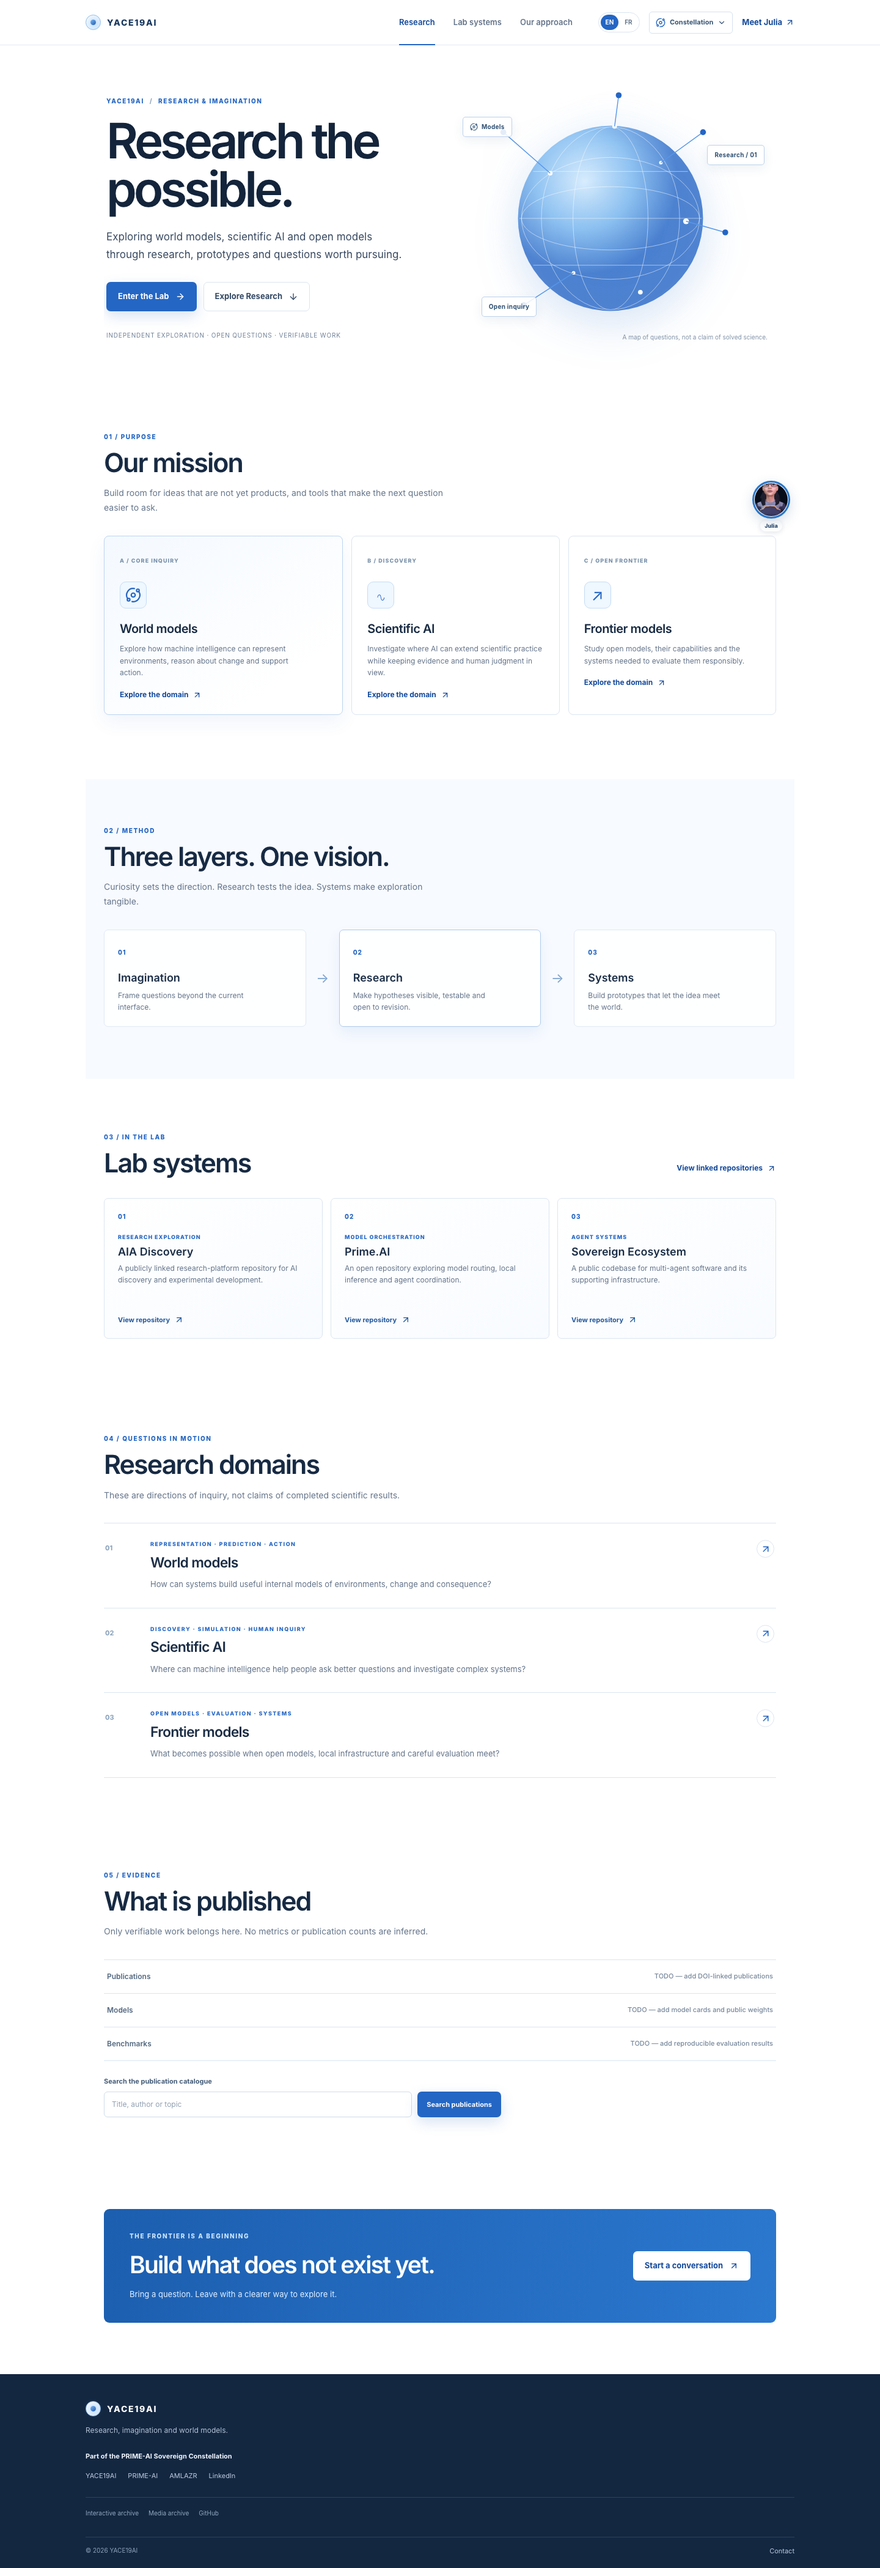
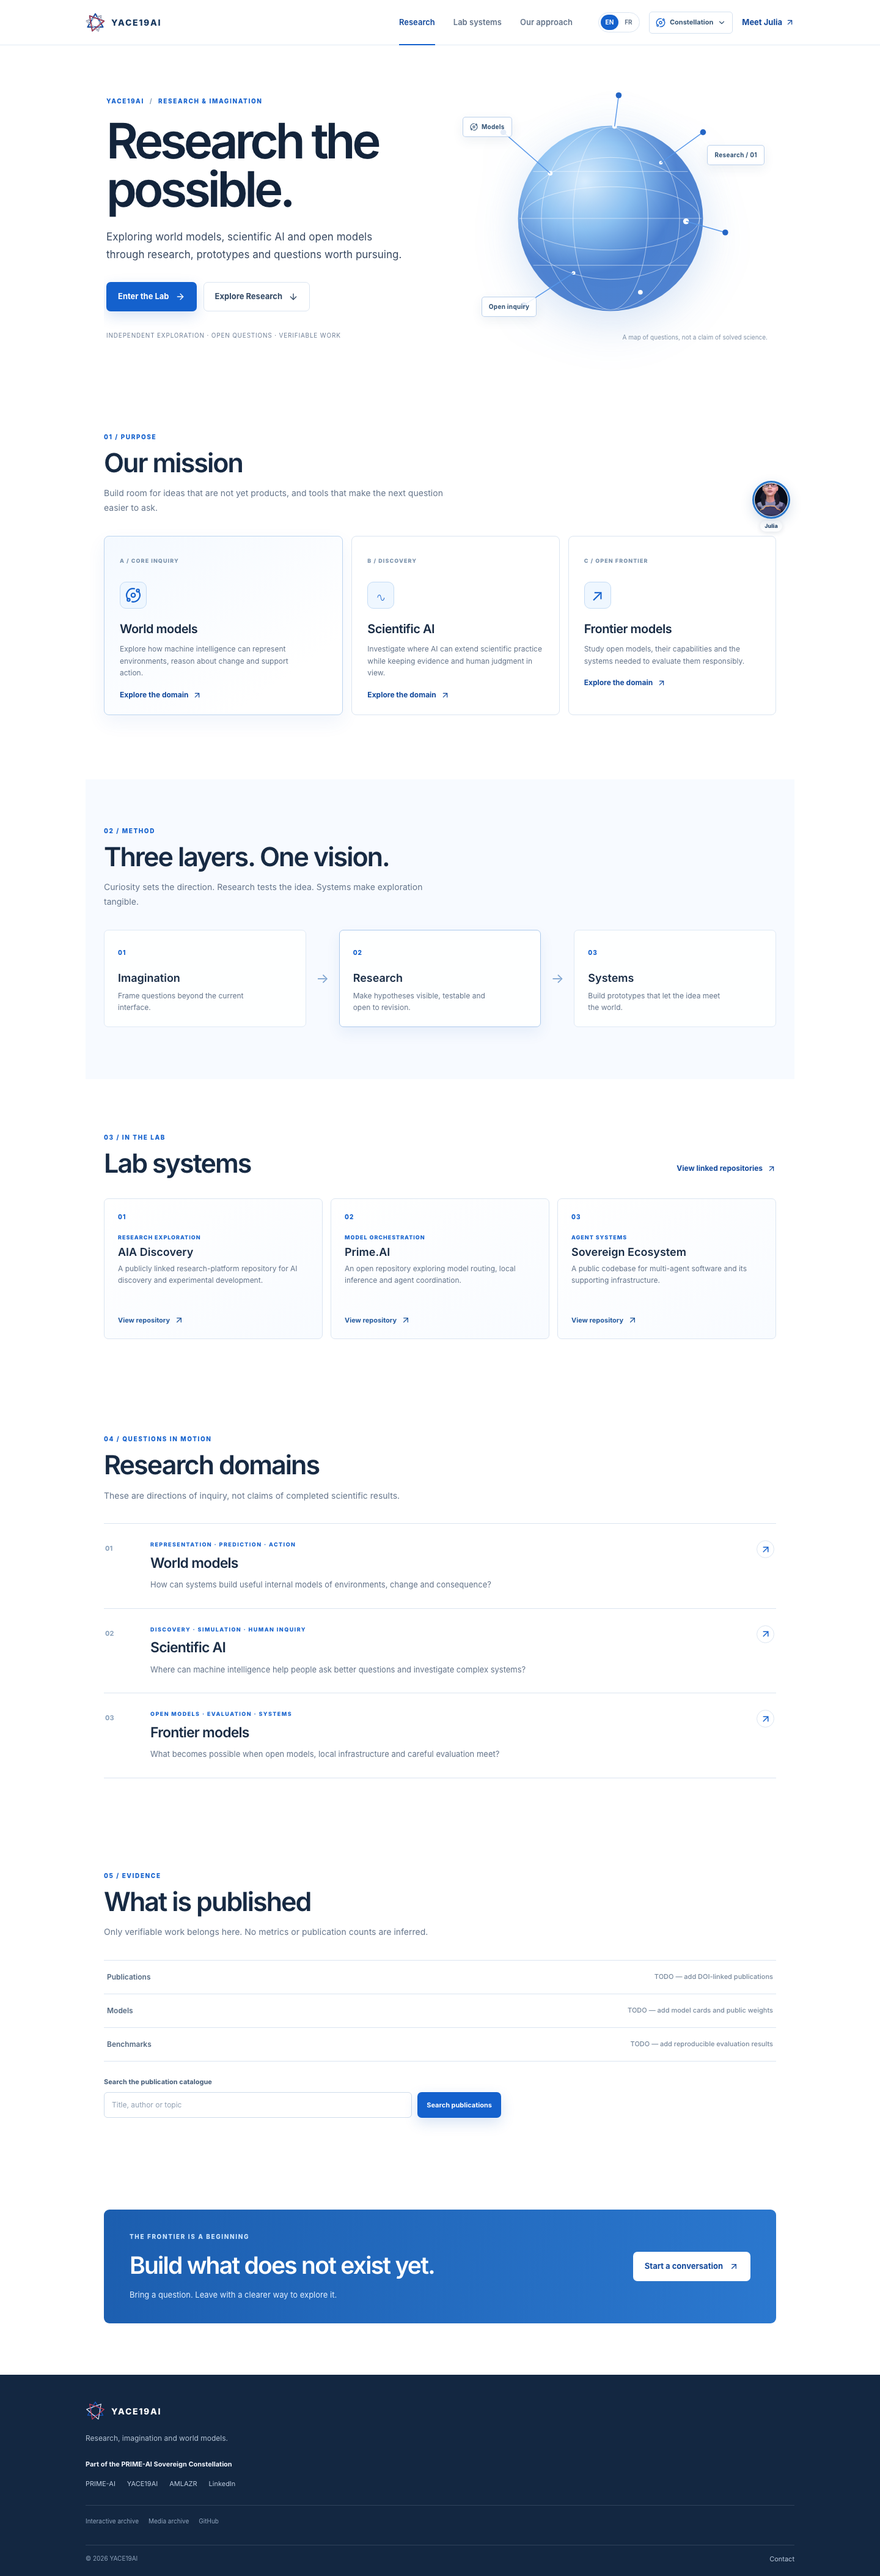
fix: align constellation identity and label Julia demo

diff --git a/src/components/JuliaPortal.tsx b/src/components/JuliaPortal.tsx
@@ -126,21 +126,21 @@ export default function JuliaPortal({
             <div><p className="eyebrow">Research companion</p><h2 id="julia-title">Julia</h2></div>
             <button className="icon-button" type="button" aria-label="Close Julia panel" onClick={() => setOpen(false)}><X size={18} /></button>
           </header>
-          <p className="julia-intro">Explore world models, scientific AI and open research. Julia can help you find your way around this lab.</p>
+          <p className="julia-intro">Research companion demo. The shared runtime provides scripted responses and browser speech; retrieval, LLM and server voice services are not connected or verified.</p>
           <div className="julia-session-status" role="status" aria-live="polite">
-            {status === "idle" && <span>Five-minute preview · no signup</span>}
+            {status === "idle" && <span>Five-minute demo · requires the shared preview service</span>}
             {status === "connecting" && <span>Connecting to the shared Julia runtime…</span>}
-            {status === "active" && <span><span className="status-dot" /> Session active · {formatTime(secondsLeft)} remaining · {agentState}</span>}
+            {status === "active" && <span><span className="status-dot" /> Demo window active · {formatTime(secondsLeft)} remaining · {agentState}</span>}
             {status === "offline" && <span>{message || "Julia's shared runtime is not available yet."}</span>}
             {status === "ended" && <span>{message}</span>}
           </div>
-          {status === "offline" && <p className="julia-fallback-note">Julia's portrait stays here while the shared runtime reconnects. Try again later.</p>}
+          {status === "offline" && <p className="julia-fallback-note">The shared service is unavailable. This portrait is a static fallback, not a connected assistant.</p>}
           {status === "ended"
             ? <a className="button button-primary julia-cta" href="https://calendly.com/info-primeai/30min" target="_blank" rel="noreferrer">Continue the conversation <ArrowUpRight size={16} /></a>
             : status !== "active" && <button className="button button-primary julia-cta" type="button" disabled={status === "connecting"} onClick={startSession}>
-              <Mic size={16} /> {status === "connecting" ? "Connecting…" : status === "offline" ? "Try again" : "Start free 5-minute session"}
+              <Mic size={16} /> {status === "connecting" ? "Connecting…" : status === "offline" ? "Try again" : "Try 5-minute demo"}
             </button>}
-          <p className="julia-disclosure">The shared PRIME-AI service signs and expires the session window; this countdown mirrors its issued expiry.</p>
+          <p className="julia-disclosure">When available, the shared PRIME-AI issuer signs the demo window; this countdown mirrors its expiry. An issued window does not establish a working retrieval or voice backend.</p>
         </section>
       )}
     </aside>

diff --git a/src/App.css b/src/App.css
@@ -2,7 +2,7 @@
   --ink: #17253a;
   --ink-soft: #3a4b63;
   --muted: #65758b;
-  --blue: #2466c4;
+  --blue: #1461cd;
   --blue-dark: #144a9c;
   --blue-pale: #eef6ff;
   --line: #dbe5f1;
@@ -29,8 +29,7 @@
   backdrop-filter: blur(16px);
 }
 .brand { display: inline-flex; align-items: center; gap: 10px; flex: 0 0 auto; color: #18385f; font-size: 14px; font-weight: 800; letter-spacing: .12em; }
-.brand-mark { display: grid; width: 25px; height: 25px; place-items: center; border: 1px solid #94bce8; border-radius: 50%; background: linear-gradient(135deg,#fff,#d5e9ff); }
-.brand-mark span { width: 9px; height: 9px; border-radius: 50%; background: linear-gradient(140deg,#79b8f5,#245cae); box-shadow: 0 0 12px #79b8f5; }
+.brand-mark { width: 32px; height: 32px; flex: 0 0 auto; }
 .primary-navigation { display: flex; align-items: center; height: 100%; gap: 30px; margin-left: auto; }
 .primary-navigation a { position: relative; display: flex; align-items: center; height: 100%; color: var(--muted); font-size: 13px; font-weight: 600; transition: color .18s ease; }
 .primary-navigation a:hover, .primary-navigation a.active { color: var(--blue-dark); }
@@ -206,8 +205,8 @@ main:focus { outline: none; }
 .constellation-entry { border-top: 1px solid #e5ebf3; }
 .constellation-site-trigger { display: flex; width: 100%; align-items: center; gap: 11px; padding: 13px 0; border: 0; text-align: left; background: transparent; cursor: pointer; }
 .site-orb { display: grid; width: 33px; height: 33px; flex: 0 0 auto; place-items: center; border: 1px solid #9cc5ee; border-radius: 50%; color: #2865ad; background: radial-gradient(circle at 35% 30%,#fff,#dceeff); }
-.prime .site-orb { border-color: #c9b4ec; color: #6740a2; background: #f3edfc; }
-.amlazr .site-orb { border-color: #ffc5bd; color: #bd493a; background: #fff1ef; }
+.prime .site-orb { border-color: #c93347; color: #c93347; background: #fff; }
+.amlazr .site-orb { border-color: #53627d; color: #53627d; background: #fff; }
 .network .site-orb { border-color: #bed4eb; color: #235486; background: #f0f6fc; }
 .site-entry-copy { display: flex; min-width: 0; flex: 1; flex-direction: column; gap: 3px; }
 .site-entry-copy strong { color: #233a56; font-size: 11px; }

diff --git a/src/App.tsx b/src/App.tsx
@@ -187,7 +187,7 @@ function Site() {
       <a className="skip-link" href="#main-content">{locale === "fr" ? "Aller au contenu" : "Skip to content"}</a>
       <header className="site-header">
         <Link className="brand" aria-label="YACE19AI home" to="/">
-          <span className="brand-mark" aria-hidden="true"><span /></span>
+          <img className="brand-mark" src="/prime-trinity.svg" alt="" width="32" height="32" />
           <span>YACE19AI</span>
         </Link>
         <button
@@ -230,12 +230,12 @@ function Site() {
 
       <footer className="site-footer">
         <div className="footer-main">
-          <Link className="brand footer-brand" to="/"><span className="brand-mark" aria-hidden="true"><span /></span><span>YACE19AI</span></Link>
+          <Link className="brand footer-brand" to="/"><img className="brand-mark" src="/prime-trinity.svg" alt="" width="32" height="32" /><span>YACE19AI</span></Link>
           <p>Research, imagination and world models.</p>
           <p className="constellation-label">Part of the PRIME-AI Sovereign Constellation</p>
           <nav aria-label="Sovereign Constellation">
-            <a href="https://yace19ai.com/">YACE19AI</a>
             <a href="https://prime-ai.fr/">PRIME-AI</a>
+            <a href="https://yace19ai.com/">YACE19AI</a>
             <a href="https://amlazr.com/">AMLAZR</a>
             <a href="https://www.linkedin.com/in/yacine-benhamou-b26386124/" target="_blank" rel="noreferrer">LinkedIn</a>
           </nav>

diff --git a/README.md b/README.md
@@ -58,6 +58,34 @@ cannot be reached, the portrait and local constellation links remain usable.
 Historical footage and project links are not proof of current service
 availability.
 
+Julia is labeled as a scripted demo with browser speech, not a verified
+retrieval, LLM or server voice service. The session issuer only authorizes a
+timed demo window. Production availability must be checked separately before
+release; static GitHub Pages hosting cannot execute the issuer API itself.
+
+The shared constellation identity uses `public/prime-trinity.svg` and YACE's
+blue accent `#1461cd`; PRIME uses `#c93347` and AMLAZR uses `#53627d`.
+Cross-site navigation preserves each site's distinct design and internal routes.
+
+## Pages release and rollback
+
+Production is built from this repository's `main` using the manual
+`Deploy to GitHub Pages` workflow. Merge only a validated release; dispatch
+`deploy.yml` on `main` only after release authorization. Do not change DNS.
+
+The pre-constellation rollback target is
+`10b39a606fc43e4929595188ab3cb9d06b0e52cc`, successful deployment run
+`37129793980`. If an authorized release regresses, restore it by rerunning all
+jobs of that original run, not by dispatching the workflow on a newer `main`:
+
+```sh
+gh run rerun 37129793980 --repo Yacinewhatchandcode/Yace19ai.com
+gh run watch 37129793980 --repo Yacinewhatchandcode/Yace19ai.com --exit-status
+```
+
+Then verify `https://yace19ai.com`, the primary routes and archive links.
+The workflow has no SHA input; a new dispatch uses its selected ref.
+
 ## QA
 
 Uses installed Playwright/Chromium, ffmpeg and ffprobe. No browser downloads.

diff --git a/docs/constellation-audit.md b/docs/constellation-audit.md
@@ -64,6 +64,7 @@ The standalone archives are retained for existing links and are not presented as
 ## Shared Julia integration
 
 - The lead-published `julia-embed-READY.md` API is integrated through the external module loader; the app does not implement the avatar runtime.
-- `mount({ site: "yace19ai", container?, tools, windowEndpoint })` is passed the shared exact-name handler map. `mountConstellation({ site: "yace19ai", container })` owns the shared accordion after it connects; the local four-entry accordion is the offline fallback.
+- `mount({ site: "yace19ai", container?, tools, windowEndpoint })` is passed the shared exact-name handler map. `mountConstellation({ site: "yace19ai" })` owns a body-level shared accordion after it connects; the local four-entry accordion is the offline fallback.
 - The server-issued `exp` and `ttl` drive the visible countdown. Session tokens are not placed in URLs, storage or logs; cross-site handoff uses the runtime's exact-origin `handoff`.
 - The local embed defaults to `http://192.168.1.80:5176/julia/embed.js`, with the YACE preview at `http://192.168.1.80:5175`. Production defaults to `https://prime-ai.fr/julia/embed.js`. Both can be overridden with `VITE_JULIA_EMBED_URL` and `VITE_JULIA_WINDOW_ENDPOINT`.
+- Julia is explicitly labeled as a scripted demo with browser speech. Retrieval, LLM and server voice services are unconnected or unverified; the timed session issuer is not evidence of those capabilities. The offline portrait is labeled as a static fallback.
